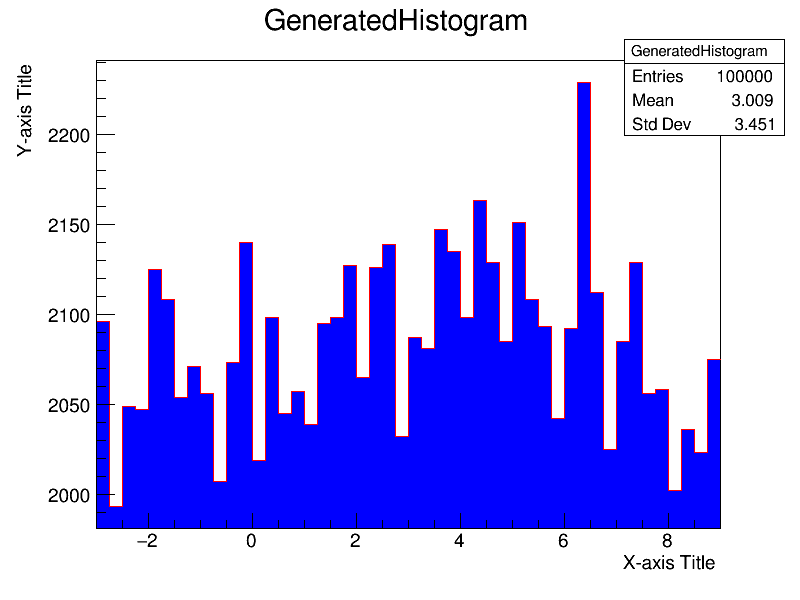
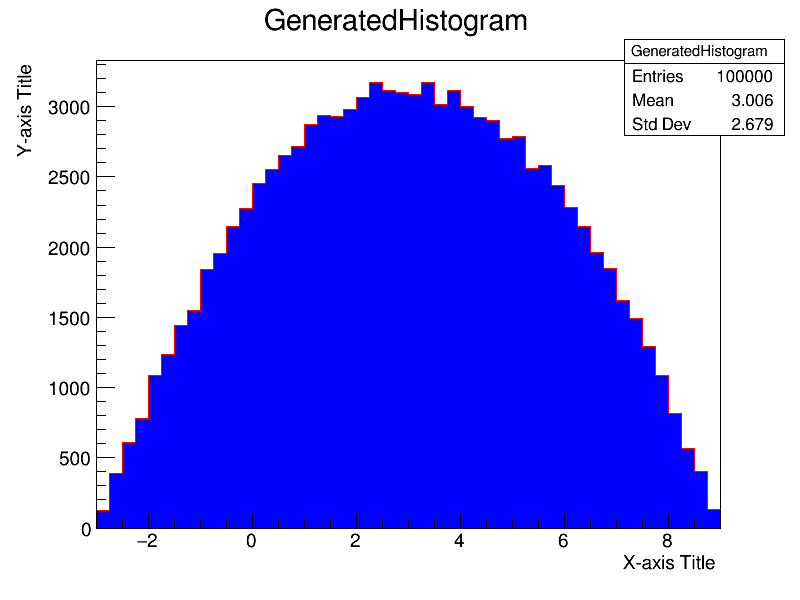
sjjs

diff --git a/Kolokvij_1/PDFGenerator.cpp b/Kolokvij_1/PDFGenerator.cpp
@@ -14,7 +14,7 @@ void PDFGenerator::GenerateHistogram() {
     while (generatedCount < 1E5) {
         randomVal = -3 + 12 * static_cast<float>(rand()) / RAND_MAX;
         functionVal = (-randomVal * randomVal + 6 * randomVal + 27) / 288;
-        randomVal2 = -3 + 12 * static_cast<float>(rand())/RAND_MAX;; 
+        randomVal2 = static_cast<float>(rand())/RAND_MAX;; 
 
         if (randomVal2 < functionVal) {
             histogram->Fill(randomVal);
